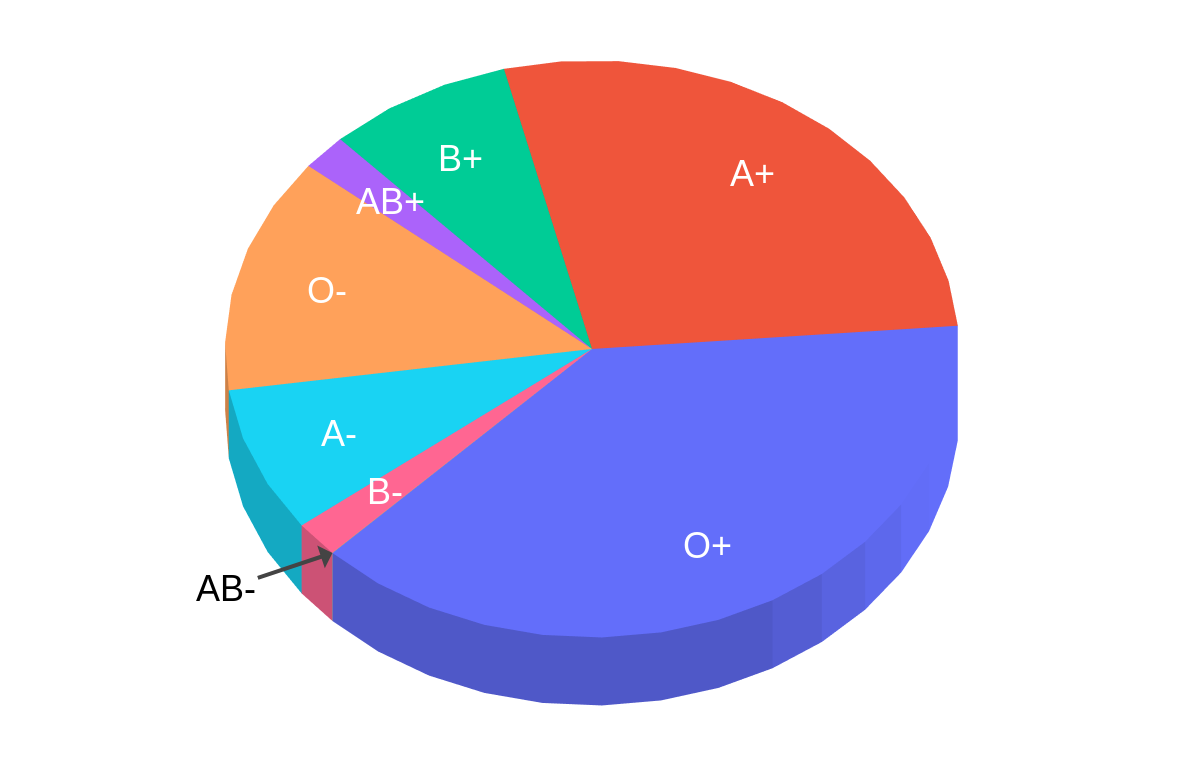
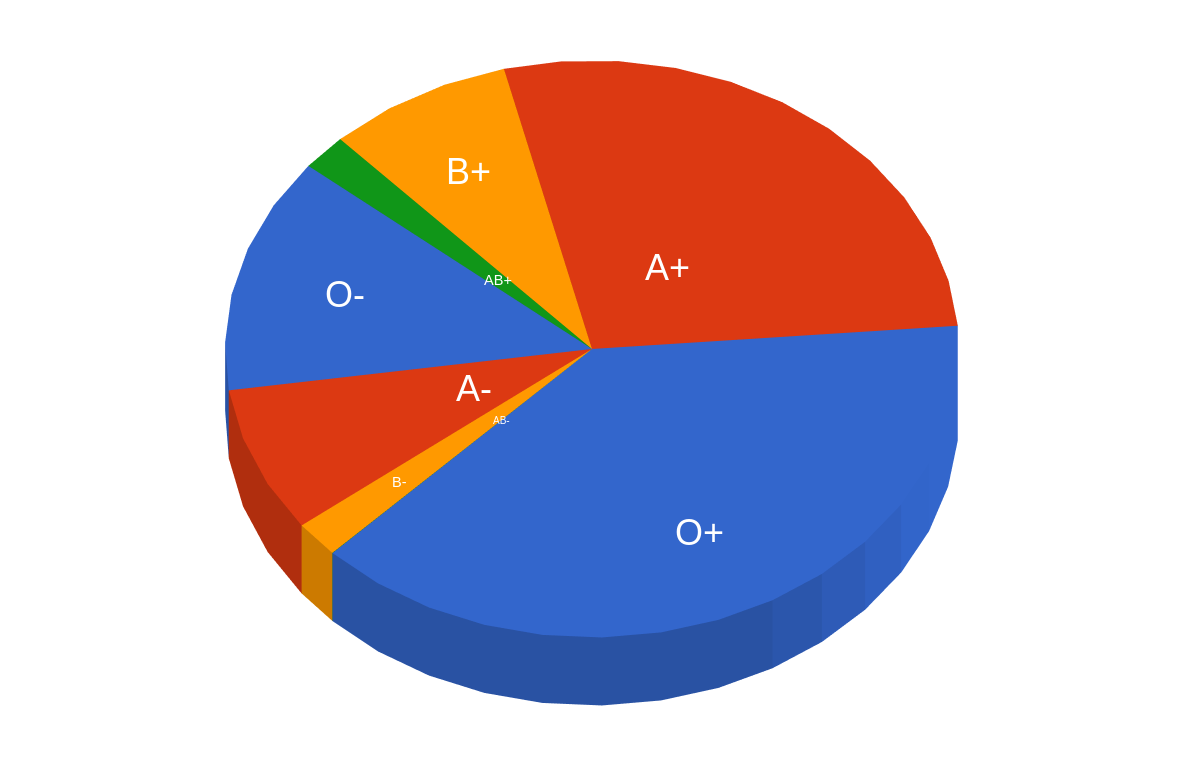
:art: Adapt some minor plotting aspects

diff --git a/src/pieviz/pieviz.py b/src/pieviz/pieviz.py
@@ -1,3 +1,5 @@
+import re
+
 import numpy as np
 from typing import Dict, Union
 
@@ -197,8 +199,9 @@ def bake_pie(
     height: float = 0.3,
     font_size: int = 36,
     label_with_percent: bool = False,
+    small_slice_labels_outside: bool = False,
     projection_type: str = "orthographic",
-    colors: list[str] = px.colors.qualitative.Plotly,
+    colors: list[str] = ['#3366cc', '#dc3912', '#ff9900', '#109618']
 ) -> go.Figure:
     """
     Create a true 3D pie chart using Mesh3d triangulation.
@@ -213,6 +216,11 @@ def bake_pie(
     """
     labels = list(data_dict.keys())
     values = np.array(list(data_dict.values()), dtype=float)
+
+    # exclude empty slices (0 or negative values)
+    valid_indices = values > 0
+    labels = [label for label, valid in zip(labels, valid_indices) if valid]
+    values = values[valid_indices]
 
     # Normalize values to angles
     total = values.sum()
@@ -256,7 +264,6 @@ def bake_pie(
         showarrow = False
         ax = 0
         ay = 0
-        font = dict(size=font_size, color="white")
         if is_single_slice:
             annotation_x = 0.0
             annotation_y = 0.0
@@ -265,7 +272,7 @@ def bake_pie(
             ay = 0
         elif (
             end_angle - start_angle < np.pi / 50
-        ):  # if slice is too small, put annotation outside
+        ) and small_slice_labels_outside:  # if slice is too small, put annotation outside
             showarrow = True
             annotation_x = radius * 1.0 * np.cos((start_angle + end_angle) / 2)
             annotation_y = radius * 1.0 * np.sin((start_angle + end_angle) / 2)
@@ -274,8 +281,20 @@ def bake_pie(
             font = dict(size=font_size, color="black")
         else:
             showarrow = False
-            annotation_x = radius * 0.75 * np.cos((start_angle + end_angle) / 2)
-            annotation_y = radius * 0.75 * np.sin((start_angle + end_angle) / 2)
+            if i % 2 == 0:
+                annotation_x = radius * 0.7 * np.cos((start_angle + end_angle) / 2)
+                annotation_y = radius * 0.7 * np.sin((start_angle + end_angle) / 2)
+            else:
+                annotation_x = radius * 0.35 * np.cos((start_angle + end_angle) / 2)
+                annotation_y = radius * 0.35 * np.sin((start_angle + end_angle) / 2)
+        font = dict(size=font_size, color="white")
+        if end_angle - start_angle < np.pi / 10:
+            angle_size = (end_angle - start_angle)
+            font = dict(size=max(font_size * angle_size / (np.pi / 10), 10), color="white")
+
+        if "pie" in label.lower():
+            # lower or upper case
+            label = re.sub(r"(?i)pie", "🥧", label).strip()
 
         annotations.append(
             dict(
